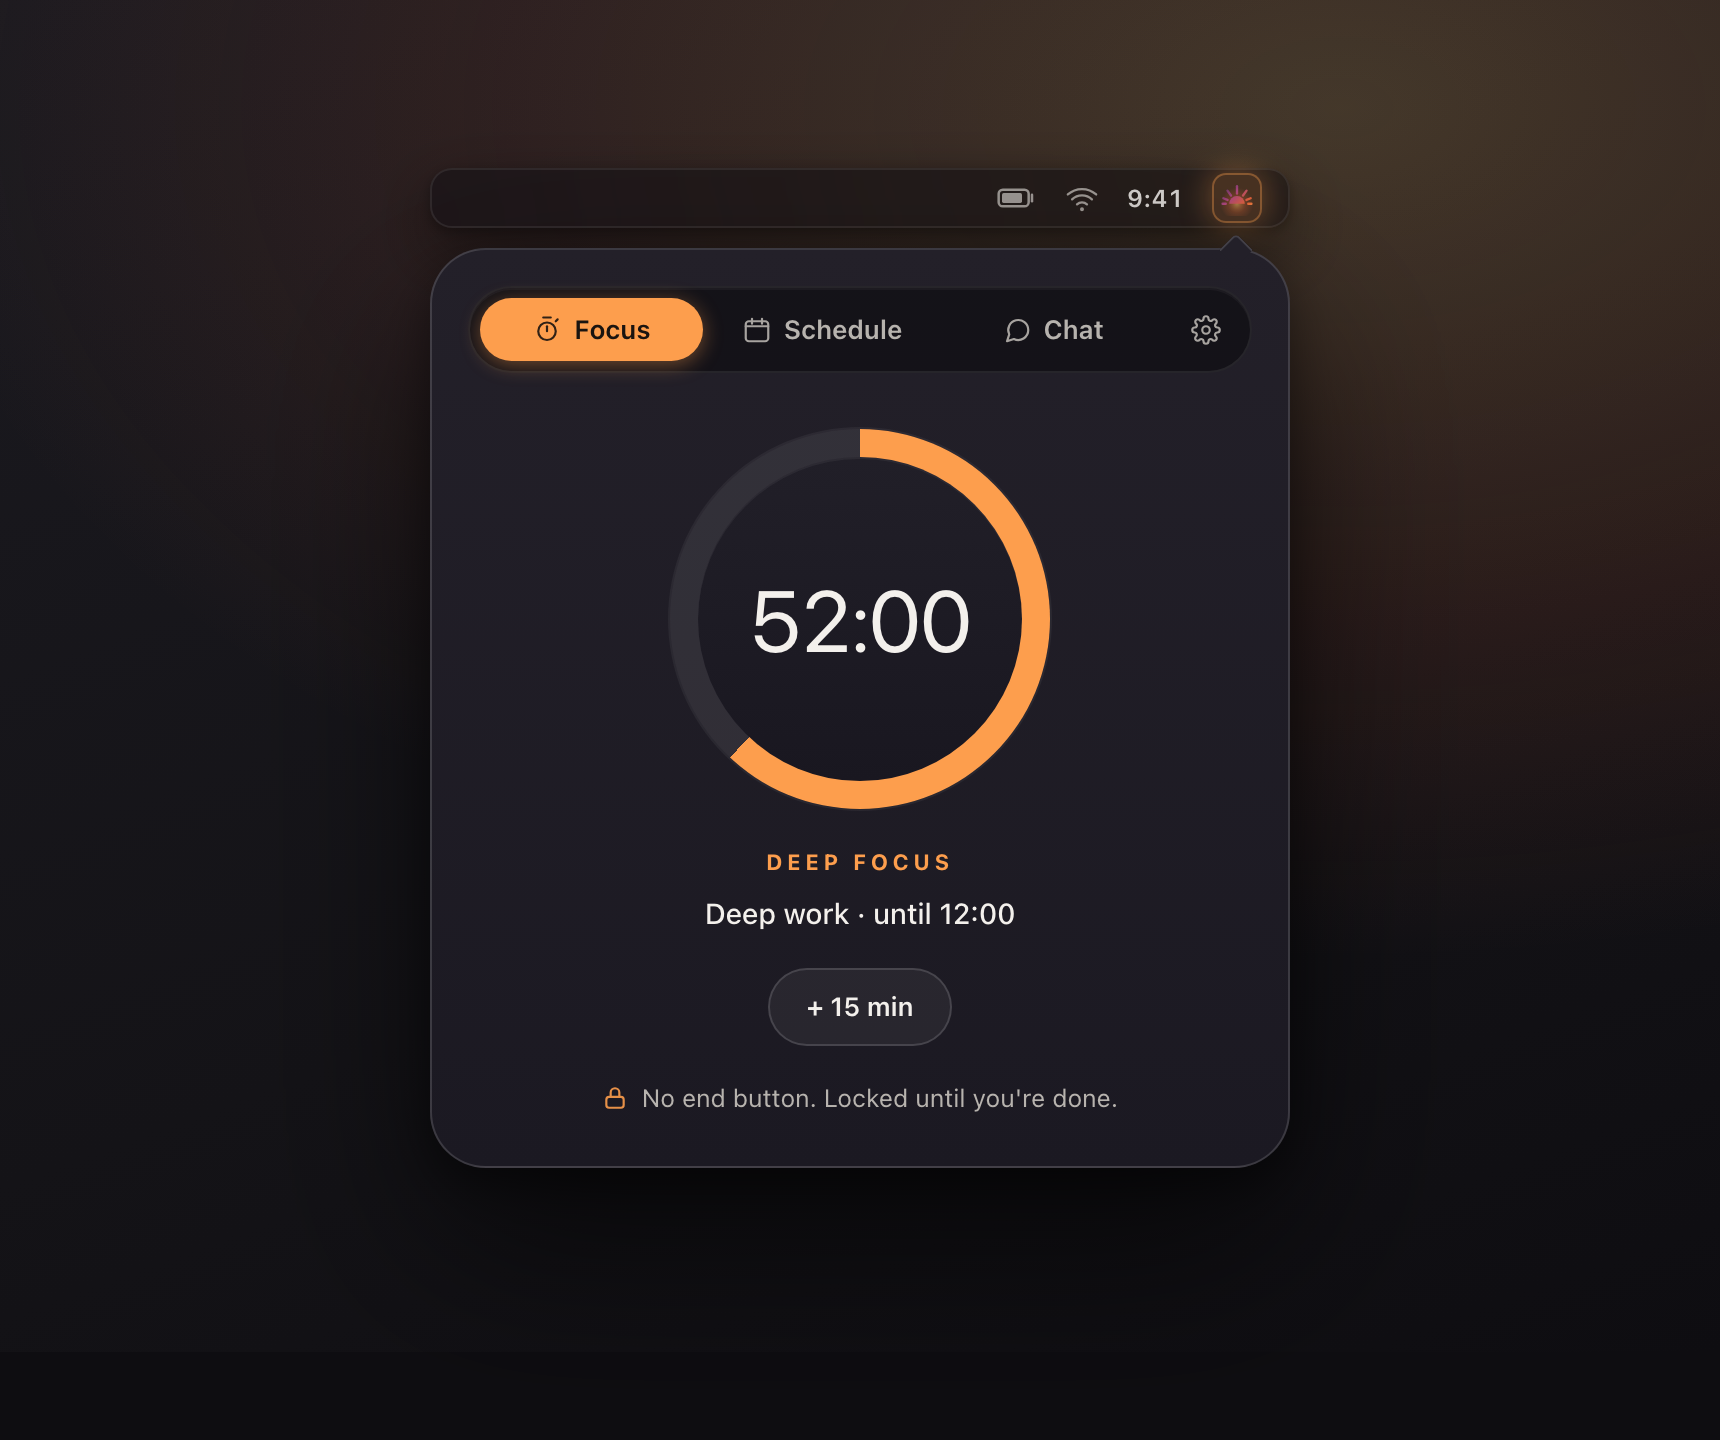
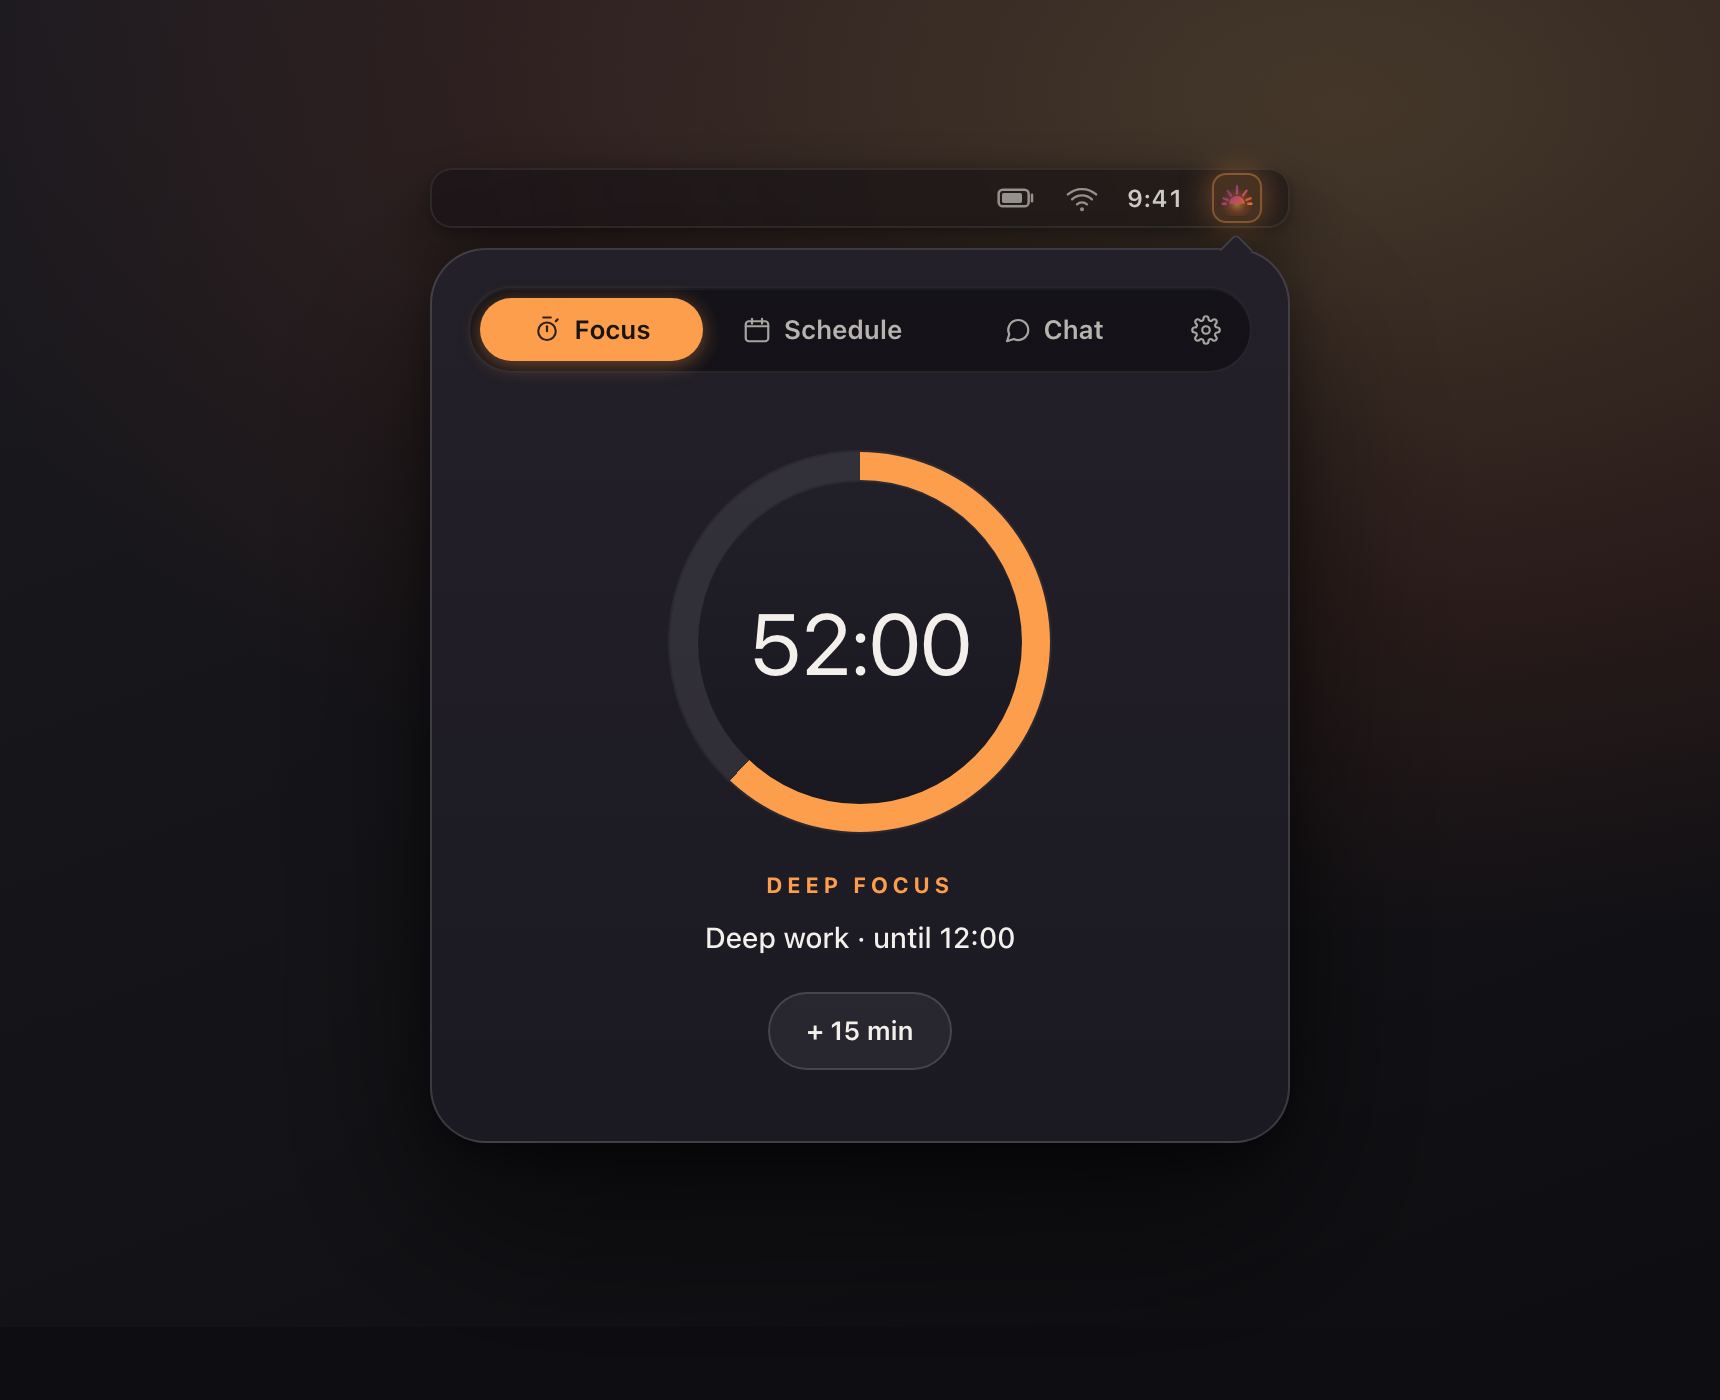
Mockup: drop the 'No end button' caption to match the real app UI (#14)
The Focus screen ends at the +15 min button in the actual app; the
caption was an editorial addition. Removed from the hero mockup and
re-rendered mockup.png and social-preview.png to match.

diff --git a/landing/index.html b/landing/index.html
@@ -123,10 +123,6 @@
               <p class="focus__eyebrow">Deep focus</p>
               <p class="focus__name">Deep work · until 12:00</p>
               <span class="focus__extend">+ 15 min</span>
-              <p class="focus__locked">
-                <svg width="13" height="13" viewBox="0 0 24 24" fill="none" stroke="currentColor" stroke-width="2" stroke-linecap="round" stroke-linejoin="round"><rect x="4" y="11" width="16" height="10" rx="2.5"/><path d="M8 11V7a4 4 0 0 1 8 0v4"/></svg>
-                No end button. Locked until you're done.
-              </p>
             </div>
 
             <!-- SCHEDULE -->

diff --git a/landing/styles.css b/landing/styles.css
@@ -1119,12 +1119,3 @@ img, svg { display: block; max-width: 100%; }
   border-radius: 999px;
   padding: 8px 18px;
 }
-.focus__locked {
-  margin-top: 16px;
-  display: inline-flex;
-  align-items: center;
-  gap: 7px;
-  font-size: 0.78rem;
-  color: var(--muted);
-}
-.focus__locked svg { color: var(--accent); opacity: 0.9; flex: 0 0 auto; }
